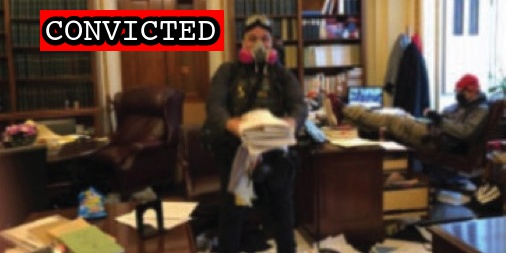
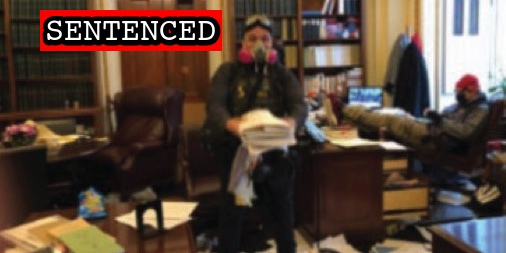
Missing sentences

Changed region(s): [[0.0593, 0.0553, 0.3557, 0.1937], [0.415, 0.0277, 0.4447, 0.1937]]

diff --git a/docs/_suspects/erik-herrera.md b/docs/_suspects/erik-herrera.md
@@ -4,20 +4,20 @@ lastName: Herrera
 hashtag: ErikHerrera
 aka:
 residence: California
-status: Convicted
+status: Sentenced
 date: 2021-08-06
 charged: 2021-08-06
 indicted: 2021-10-06
 convicted: 2022-08-19
 acquitted:
-sentenced:
+sentenced: 2023-01-17
 dismissed:
 deceased:
 plea_hearing:
 trial_date: 2022-08-15
 trial_type: Jury Trial
 jury_selection:
-sentencing: 2023-01-13
+sentencing: 2023-01-17
 status_conference:
 age:
 occupation:
@@ -41,28 +41,33 @@ caseName: USA v. HERRERA
 judge: Beryl A. Howell
 videos:
 charges:
-- code: 18 USC § 1512(c)(2),2
-  title: Obstruction of an Official Proceeding (Aiding and Abetting)
-  url: https://www.law.cornell.edu/uscode/text/18/1512
-  felony: true
-- code: 18 USC § 1752(a)(1)
-  title: Entering a restricted building or grounds
-  url: https://www.law.cornell.edu/uscode/text/18/1752
-  felony: false
-- code: 18 USC § 1752(a)(2)
-  title: Disorderly and disruptive conduct in a restricted building or grounds
-  url: https://www.law.cornell.edu/uscode/text/18/1752
-  felony: false
-- code: 40 USC § 5104(e)(2)(D)
-  title: Disorderly Conduct in a Capitol Building
-  url: https://www.law.cornell.edu/uscode/text/40/5104
-  felony: false
-- code: 40 USC § 5104(e)(2)(G)
-  title: Parading, demonstrating or picketing in a Capitol building
-  url: https://www.law.cornell.edu/uscode/text/40/5104
-  felony: false
+  - code: 18 USC § 1512(c)(2),2
+    title: Obstruction of an Official Proceeding (Aiding and Abetting)
+    url: https://www.law.cornell.edu/uscode/text/18/1512
+    felony: true
+  - code: 18 USC § 1752(a)(1)
+    title: Entering a restricted building or grounds
+    url: https://www.law.cornell.edu/uscode/text/18/1752
+    felony: false
+  - code: 18 USC § 1752(a)(2)
+    title: Disorderly and disruptive conduct in a restricted building or grounds
+    url: https://www.law.cornell.edu/uscode/text/18/1752
+    felony: false
+  - code: 40 USC § 5104(e)(2)(D)
+    title: Disorderly Conduct in a Capitol Building
+    url: https://www.law.cornell.edu/uscode/text/40/5104
+    felony: false
+  - code: 40 USC § 5104(e)(2)(G)
+    title: Parading, demonstrating or picketing in a Capitol building
+    url: https://www.law.cornell.edu/uscode/text/40/5104
+    felony: false
 sentence:
+  - 4 years incarceration
+  - 3 years probation
+  - $1000 fine
+  - $2000 restitution
 ---
+
 - [News Report](https://www.ocregister.com/2021/10/07/2-more-with-southern-california-ties-charged-in-jan-6-storming-of-u-s-capitol/)
 - [Complaint](https://www.justice.gov/usao-dc/case-multi-defendant/file/1526501/download)
 - [Indictment](https://www.justice.gov/usao-dc/case-multi-defendant/file/1526511/download)

diff --git a/docs/_suspects/charles-hand.md b/docs/_suspects/charles-hand.md
@@ -4,13 +4,13 @@ lastName: Hand
 hashtag:
 aka: Chuck Hand
 residence: Georgia
-status: Convicted
+status: Sentenced
 date: 2022-03-04
 charged: 2022-03-04
 indicted:
 convicted: 2022-10-14
 acquitted:
-sentenced:
+sentenced: 2023-01-13
 dismissed:
 deceased:
 plea_hearing: 2022-10-14
@@ -41,12 +41,16 @@ caseName: USA v. HAND
 judge: James E. Boasberg
 videos:
 charges:
-- code: 40 USC § 5104(e)(2)(G)
-  title: Parading, demonstrating or picketing in a Capitol building
-  url: https://www.law.cornell.edu/uscode/text/40/5104
-  felony: false
+  - code: 40 USC § 5104(e)(2)(G)
+    title: Parading, demonstrating or picketing in a Capitol building
+    url: https://www.law.cornell.edu/uscode/text/40/5104
+    felony: false
 sentence:
+  - 20 days incarceration
+  - 6 months probation
+  - $500 restitution
 ---
+
 - [News Report](https://www.11alive.com/article/news/special-reports/capitol-insurrection/georgia-couple-arrested-jan-6-case-capitol-riots/85-7da2e02e-4b63-4579-9aef-a959a286d122)
 - [Complaint](https://www.justice.gov/usao-dc/case-multi-defendant/file/1482876/download)
 - [Statement of Facts](https://www.justice.gov/usao-dc/case-multi-defendant/file/1482881/download)

diff --git a/docs/_suspects/chad-clifton.md b/docs/_suspects/chad-clifton.md
@@ -4,13 +4,13 @@ lastName: Clifton
 hashtag:
 aka:
 residence: South Carolina
-status: Convicted
+status: Sentenced
 date: 2022-05-16
 charged: 2022-05-16
 indicted:
 convicted: 2022-10-13
 acquitted:
-sentenced:
+sentenced: 2023-01-13
 dismissed:
 deceased:
 plea_hearing: 2022-10-13
@@ -41,12 +41,18 @@ caseName: USA v. CLIFTON
 judge: Beryl A. Howell
 videos:
 charges:
-- code: 40 USC § 5104(e)(2)(G)
-  title: Parading, demonstrating or picketing in a Capitol building
-  url: https://www.law.cornell.edu/uscode/text/40/5104
-  felony: false
+  - code: 40 USC § 5104(e)(2)(G)
+    title: Parading, demonstrating or picketing in a Capitol building
+    url: https://www.law.cornell.edu/uscode/text/40/5104
+    felony: false
 sentence:
+  - 21 days intermittent confinement
+  - 90 days home detention
+  - 3 years probation
+  - $500 fine
+  - $500 restitution
 ---
+
 - [News Report](https://www.heraldonline.com/news/local/crime/article261637562.html)
 - [Statement of Facts](https://www.justice.gov/usao-dc/case-multi-defendant/file/1507421/download)
 - [Complaint](https://www.justice.gov/usao-dc/case-multi-defendant/file/1507426/download)
